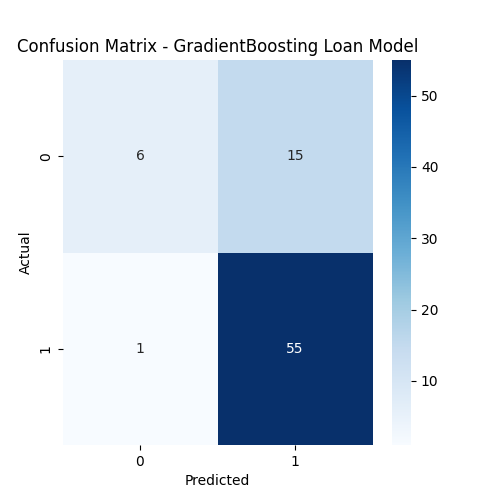
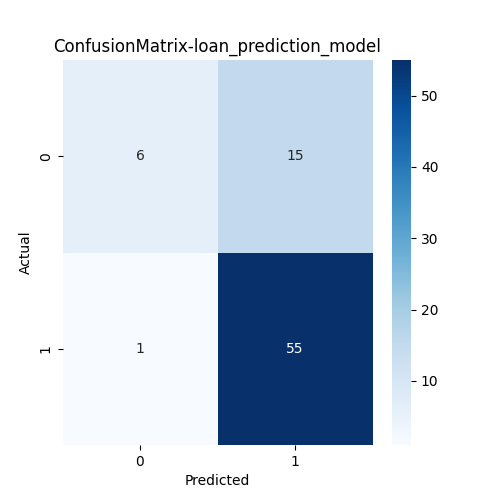
added ci/cd pipeline

Changed region(s): [[0.03, 0.06, 0.84, 0.12]]

diff --git a/src/models/model_eval.py b/src/models/model_eval.py
@@ -4,46 +4,71 @@ import yaml
 import joblib
 import pandas as pd
 import mlflow
+import mlflow.sklearn
 import dagshub
 import seaborn as sns
 import matplotlib.pyplot as plt
+from sklearn.metrics import accuracy_score,precision_score,recall_score,f1_score,confusion_matrix
 
-from sklearn.metrics import accuracy_score, precision_score, recall_score, f1_score, confusion_matrix
 
+dagshub.init(
+    repo_owner="sivakumar026",
+    repo_name="loan_mlops",
+    mlflow=True
+)
 
-dagshub.init(repo_owner="sivakumar026",repo_name="loan_mlops",mlflow=True)
+mlflow.set_tracking_uri(
+    "https://dagshub.com/sivakumar026/loan_mlops.mlflow"
+)
 
-mlflow.set_tracking_uri("https://dagshub.com/sivakumar026/loan_mlops.mlflow")
-
-mlflow.set_experiment("Loan Model Evaluation")
+mlflow.set_experiment(
+    "Loan_Model_Evaluation"
+)
 
 
 def load_data(filepath:str):
+
     try:
+
         return pd.read_csv(filepath)
+
     except Exception as e:
-        raise Exception(f"Error loading data: {e}")
+
+        raise Exception(f"Error loading data:{e}")
 
 
 def prepare_data(data:pd.DataFrame):
+
     try:
+
         X=data.drop(columns=["Loan_Status"],axis=1)
+
         y=data["Loan_Status"]
+
         return X,y
+
     except Exception as e:
-        raise Exception(f"Error preparing data: {e}")
+
+        raise Exception(f"Error preparing data:{e}")
 
 
 def load_model(filepath:str):
+
     try:
+
         return joblib.load(filepath)
+
     except Exception as e:
-        raise Exception(f"Error loading model: {e}")
+
+        raise Exception(f"Error loading model:{e}")
 
 
 def evaluate_model(model,X_test,y_test,model_name):
+
     try:
+
         with open("params.yaml","r") as file:
+
             params=yaml.safe_load(file)
 
         test_size=params["data_collection"]["test_size"]
@@ -51,15 +76,21 @@ def evaluate_model(model,X_test,y_test,model_name):
         y_pred=model.predict(X_test)
 
         accuracy=accuracy_score(y_test,y_pred)
+
         precision=precision_score(y_test,y_pred)
+
         recall=recall_score(y_test,y_pred)
+
         f1=f1_score(y_test,y_pred)
 
         mlflow.log_param("test_size",test_size)
 
         mlflow.log_metric("accuracy",accuracy)
+
         mlflow.log_metric("precision",precision)
+
         mlflow.log_metric("recall",recall)
+
         mlflow.log_metric("f1_score",f1)
 
         cm=confusion_matrix(y_test,y_pred)
@@ -67,58 +98,135 @@ def evaluate_model(model,X_test,y_test,model_name):
         os.makedirs("reports",exist_ok=True)
 
         plt.figure(figsize=(5,5))
+
         sns.heatmap(cm,annot=True,fmt="d",cmap="Blues")
+
         plt.xlabel("Predicted")
+
         plt.ylabel("Actual")
-        plt.title(f"Confusion Matrix - {model_name}")
+
+        plt.title(f"ConfusionMatrix-{model_name}")
 
         cm_path="reports/confusion_matrix.png"
 
         plt.savefig(cm_path)
+
         plt.close()
 
         mlflow.log_artifact(cm_path)
 
-        return {
+        metrics={
             "accuracy":accuracy,
             "precision":precision,
             "recall":recall,
             "f1_score":f1
         }
 
+        return metrics
+
     except Exception as e:
-        raise Exception(f"Error in evaluation: {e}")
+
+        raise Exception(f"Error in evaluation:{e}")
 
 
 def save_metrics(metrics:dict,metrics_path:str):
+
     try:
+
         with open(metrics_path,"w") as file:
+
             json.dump(metrics,file,indent=4)
+
     except Exception as e:
-        raise Exception(f"Error saving metrics: {e}")
+
+        raise Exception(f"Error saving metrics:{e}")
+
+
+def save_run_info(run_id:str,model_name:str,filepath:str):
+
+    try:
+
+        run_info={
+            "run_id":run_id,
+            "model_name":model_name
+        }
+
+        with open(filepath,"w") as file:
+
+            json.dump(run_info,file,indent=4)
+
+    except Exception as e:
+
+        raise Exception(f"Error saving run info:{e}")
 
 
 def main():
+
     try:
+
         test_data_path="./data/processed/test_processed.csv"
+
         model_path="models/model.pkl"
+
+        
+
         metrics_path="reports/metrics.json"
-        model_name="GradientBoosting Loan Model"
+
+        run_info_path="reports/run_info.json"
+
+        model_name="loan_prediction_model"
 
         test_data=load_data(test_data_path)
+
         X_test,y_test=prepare_data(test_data)
+
         model=load_model(model_path)
 
         with mlflow.start_run(run_name="Loan_Model_Evaluation"):
-            metrics=evaluate_model(model,X_test,y_test,model_name)
+
+            mlflow.sklearn.autolog()
+
+            metrics=evaluate_model(
+                model,
+                X_test,
+                y_test,
+                model_name
+            )
+
+            try:
+
+                mlflow.sklearn.log_model(
+                    sk_model=model,
+                    artifact_path="loan_model"
+                )
+
+                print("loan_model logged successfully")
+
+            except Exception as e:
+
+                print(f"Model logging error:{e}")
+
             save_metrics(metrics,metrics_path)
-            mlflow.log_artifact(model_path)
+
+            run_id=mlflow.active_run().info.run_id
+
+            save_run_info(
+                run_id,
+                model_name,
+                run_info_path
+            )
+
             mlflow.log_artifact(metrics_path)
+
+            mlflow.log_artifact(run_info_path)
+
             print("Model evaluation completed successfully!")
 
     except Exception as e:
-        raise Exception(f"Error in main: {e}")
+
+        raise Exception(f"Error in main:{e}")
 
 
 if __name__=="__main__":
+
     main()

diff --git a/src/models/model_reg.py b/src/models/model_reg.py
@@ -1,0 +1,64 @@
+import json
+import mlflow
+from mlflow.tracking import MlflowClient
+import dagshub
+
+
+dagshub.init(
+    repo_owner="sivakumar026",
+    repo_name="loan_mlops",
+    mlflow=True
+)
+
+mlflow.set_experiment(
+    "Final_Model"
+)
+
+mlflow.set_tracking_uri(
+    "https://dagshub.com/sivakumar026/loan_mlops.mlflow"
+)
+
+
+reports_path="reports/run_info.json"
+
+with open(reports_path,"r") as file:
+
+    run_info=json.load(file)
+
+
+run_id=run_info["run_id"]
+
+model_name=run_info["model_name"]
+
+
+client=MlflowClient()
+
+
+model_uri=f"runs:/{run_id}/loan_model"
+
+
+registered_model=mlflow.register_model(
+    model_uri,
+    model_name
+)
+
+
+model_version=registered_model.version
+
+
+new_stage="Staging"
+
+
+client.transition_model_version_stage(
+    name=model_name,
+    version=model_version,
+    stage=new_stage,
+    archive_existing_versions=True
+)
+
+
+print(
+    f"Model {model_name} "
+    f"version {model_version} "
+    f"transitioned to {new_stage} stage."
+)